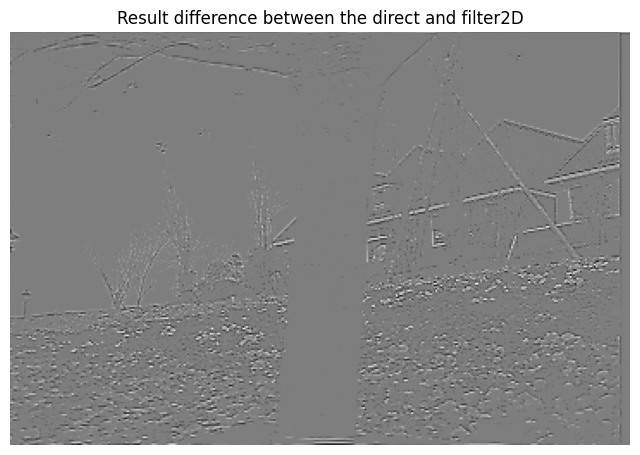
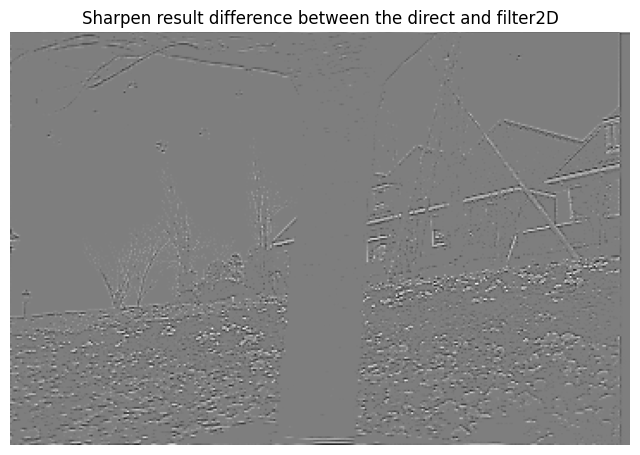
more images

Changed region(s): [[0.125, 0.0, 0.875, 0.0615]]

diff --git a/TP1/TP_Features_OpenCV/Convolutions.py b/TP1/TP_Features_OpenCV/Convolutions.py
@@ -12,12 +12,12 @@ print("Image dimension:",h,"rows x",w,"columns")
 #Direct method
 t1 = cv2.getTickCount()
 #Code execution
-img2 = cv2.copyMakeBorder(img,0,0,0,0,cv2.BORDER_REPLICATE) #Adding borders
+direct_method = cv2.copyMakeBorder(img,0,0,0,0,cv2.BORDER_REPLICATE) #Adding borders
 for y in range(1,h-1):
   for x in range(1,w-1):
     #perform a convolution operation with a 3×3 filter
     val = 5*img[y, x] - img[y-1, x] - img[y, x-1] - img[y+1, x] - img[y, x+1] 
-    img2[y,x] = min(max(val,0),255)
+    direct_method[y,x] = min(max(val,0),255)
 
 t2 = cv2.getTickCount()
 #Find the time of execution in seconds
@@ -25,7 +25,7 @@ time = (t2 - t1)/ cv2.getTickFrequency()
 print("Direct method:",time,"s")
 
 plt.figure(figsize=(8, 6))
-plt.imshow(img2, cmap='gray')
+plt.imshow(direct_method, cmap='gray')
 plt.title('Sharpen Convolution - Direct method')
 plt.axis('off')
 plt.savefig("conv_direct_sharpen.png", bbox_inches='tight')
@@ -34,34 +34,40 @@ plt.close()
 #Method filter2D
 t1 = cv2.getTickCount()
 kernel = np.array([[0, -1, 0],[-1, 5, -1],[0, -1, 0]])
-img3 = cv2.filter2D(img,-1,kernel)
+filter2d_method = cv2.filter2D(img,-1,kernel)
 t2 = cv2.getTickCount()
 time = (t2 - t1)/ cv2.getTickFrequency()
 print("Method filter2D :",time,"s")
 
 plt.figure(figsize=(8, 6))
-plt.imshow(img3, cmap='gray')
+plt.imshow(filter2d_method, cmap='gray')
 plt.title('Sharpen Convolution - filter2D')
 plt.axis('off')
 plt.savefig("conv_filter2D_sharpen.png", bbox_inches='tight')
 plt.close()
 
+#normalized_filter2d = cv2.normalize(filter2d_method, None, alpha = 0, beta = 255, norm_type = cv2.NORM_MINMAX, dtype = cv2.CV_32F)
+#normalized_filter2d.astype(np.uint8)
+
 #Method filter2D
 t1 = cv2.getTickCount()
 kernel = np.array([[0, -1, 0],[-1, 5, -1],[0, -1, 0]])
-img4 = signal.convolve2d(img, kernel, boundary='symm', mode='same')
+scipy_method = signal.convolve2d(img, kernel, boundary='symm', mode='same')
 t2 = cv2.getTickCount()
 time = (t2 - t1)/ cv2.getTickFrequency()
 print("Method scipy.signal.convolve2D :",time,"s")
 
+#normalized_scipy = cv2.normalize(scipy_method, None, alpha = 0, beta = 255, norm_type = cv2.NORM_MINMAX, dtype = cv2.CV_32F)
+#normalized_scipy.astype(np.uint8)
+
 plt.figure(figsize=(8, 6))
-plt.imshow(img3, cmap='gray')
+plt.imshow(scipy_method, cmap='gray')
 plt.title('Sharpen Convolution - scipy')
 plt.axis('off')
 plt.savefig("conv_scipy_sharpen.png", bbox_inches='tight')
 plt.close()
 
-img_diff = img3 - img2
+img_diff = filter2d_method - direct_method
 img_diff *= 255.0 / np.max(img_diff) 
 plt.figure(figsize=(8, 6))
 plt.imshow(img_diff, cmap='gray')
@@ -70,7 +76,7 @@ plt.axis('off')
 plt.savefig("difference_sharpen_direct-filter2D.png", bbox_inches='tight')
 plt.close()
 
-img_diff = img4 - img2
+img_diff = scipy_method - direct_method
 img_diff *= 255.0 / np.max(img_diff) 
 plt.figure(figsize=(8, 6))
 plt.imshow(img_diff, cmap='gray')
@@ -78,3 +84,20 @@ plt.title("Sharpen result difference between the direct and scipy")
 plt.axis('off')
 plt.savefig("difference_sharpen_direct-scipy.png", bbox_inches='tight')
 plt.close()
+
+plt.figure(figsize=(8, 6))
+plt.imshow(filter2d_method, cmap='gray', vmax=255.0, vmin=0.0)
+plt.title('Normalized Sharpen Convolution - filter2d')
+plt.axis('off')
+plt.savefig("normalized_conv_filter2d_sharpen.png", bbox_inches='tight')
+plt.close()
+
+plt.figure(figsize=(8, 6))
+plt.imshow(scipy_method, cmap='gray', vmax=255.0, vmin=0.0)
+plt.title('Normalized Sharpen Convolution - scipy')
+plt.axis('off')
+plt.savefig("normalized_conv_scipy_sharpen.png", bbox_inches='tight')
+plt.close()
+
+
+

diff --git a/TP1/TP_Features_OpenCV/modified_Convolutions.py b/TP1/TP_Features_OpenCV/modified_Convolutions.py
@@ -46,9 +46,8 @@ plt.savefig("conv_filter2D_y_derivate.png", bbox_inches='tight')
 plt.close()
 
 img_diff = img3 - img2
-img_diff *= 255.0 / np.max(img_diff) 
 plt.figure(figsize=(8, 6))
-plt.imshow(img_diff, cmap='gray')
+plt.imshow(img_diff, cmap='gray', vmax=255, vmin=0)
 plt.title("Y derivate result difference between the direct and filter2D")
 plt.axis('off')
 plt.savefig("difference_y_derivate_direct-filter2D.png", bbox_inches='tight')
